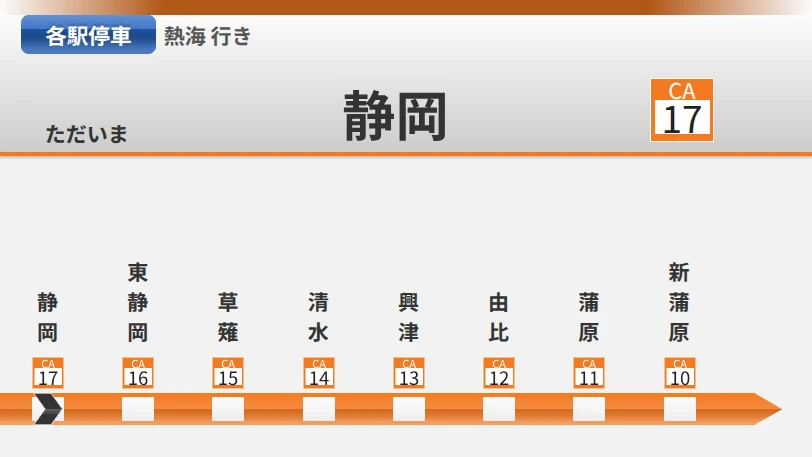
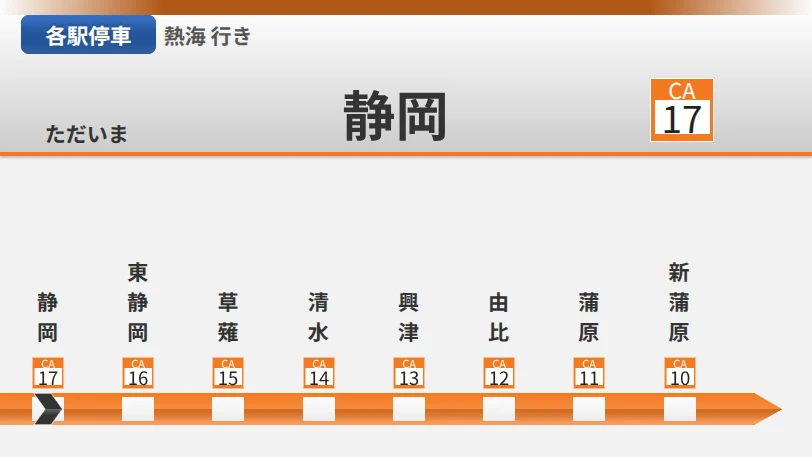
315系風の種別表示のグラデーションをなだらかにして光沢を抑える

Changed region(s): [[0.0, 0.0306, 0.2155, 0.0613], [0.0308, 0.0919, 0.1847, 0.1225]]

diff --git a/src/components/TrainTypeBox.tsx b/src/components/TrainTypeBox.tsx
@@ -45,6 +45,7 @@ type Props = {
   heightScale?: number;
   widthScale?: number;
   borderRadius?: number;
+  softGradient?: boolean;
 };
 
 export const resolveTrainTypeFontFamily = (
@@ -120,6 +121,7 @@ const TrainTypeBox: React.FC<Props> = ({
   heightScale = 1,
   widthScale = 1,
   borderRadius = 4,
+  softGradient = false,
 }: Props) => {
   const fontSizeScale = Math.max(fontSizeScaleRaw, 0.1);
   const boxHeight = BOX_HEIGHT * Math.max(heightScale, 0.1);
@@ -359,9 +361,17 @@ const TrainTypeBox: React.FC<Props> = ({
     <View>
       <View style={[styles.box, boxSizeStyle]}>
         <LinearGradient
-          colors={['#aaa', '#000', '#000', '#aaa']}
+          colors={
+            softGradient
+              ? ['#666', '#222', '#333', '#555']
+              : ['#aaa', '#000', '#000', '#aaa']
+          }
           locations={
-            darkenColor ? [0.35, 0.35, 0.35, 0.9] : [0.5, 0.5, 0.5, 0.9]
+            softGradient
+              ? [0, 0.35, 0.7, 1]
+              : darkenColor
+                ? [0.35, 0.35, 0.35, 0.9]
+                : [0.5, 0.5, 0.5, 0.9]
           }
           style={gradientStyle}
         />
@@ -372,13 +382,21 @@ const TrainTypeBox: React.FC<Props> = ({
         {darkenColor ? (
           <>
             <LinearGradient
-              colors={['#00000000', '#00000033', '#00000000']}
-              locations={[0.35, 0.55, 0.85]}
+              colors={
+                softGradient
+                  ? ['#00000000', '#00000018', '#00000000']
+                  : ['#00000000', '#00000033', '#00000000']
+              }
+              locations={softGradient ? [0, 0.55, 1] : [0.35, 0.55, 0.85]}
               style={gradientStyle}
             />
             <LinearGradient
-              colors={['#ffffff44', '#ffffff11', '#00000000']}
-              locations={[0, 0.35, 0.35]}
+              colors={
+                softGradient
+                  ? ['#ffffff18', '#ffffff08', '#00000000']
+                  : ['#ffffff44', '#ffffff11', '#00000000']
+              }
+              locations={softGradient ? [0, 0.45, 1] : [0, 0.35, 0.35]}
               style={gradientStyle}
             />
           </>

diff --git a/src/components/TrainTypeBox.test.tsx b/src/components/TrainTypeBox.test.tsx
@@ -211,7 +211,8 @@ describe('TrainTypeBox 2行種別の可読性', () => {
     fontSizeScale: number,
     heightScale = 1,
     widthScale = 1,
-    borderRadius?: number
+    borderRadius?: number,
+    gradientProps: { darkenColor?: boolean; softGradient?: boolean } = {}
   ) => {
     (useAtomValue as jest.Mock).mockImplementation((atom: unknown) => {
       if (atom === headerStateAtom) return 'CURRENT_JA';
@@ -230,6 +231,7 @@ describe('TrainTypeBox 2行種別の可読性', () => {
         heightScale={heightScale}
         widthScale={widthScale}
         borderRadius={borderRadius}
+        {...gradientProps}
       />
     );
   };
@@ -295,6 +297,41 @@ describe('TrainTypeBox 2行種別の可読性', () => {
         expect(StyleSheet.flatten(layer.props.style).borderRadius).toBe(
           borderRadius ?? 4
         );
+      }
+    }
+  );
+
+  it.each([false, true])(
+    'softGradient=%pの段階位置を確認する',
+    (softGradient) => {
+      const { UNSAFE_root } = renderWithScale(1.2, 1.3, 1.4, 8, {
+        darkenColor: true,
+        softGradient,
+      });
+      const layers = UNSAFE_root.findAllByType(LinearGradient);
+      expect(layers).toHaveLength(4);
+      if (softGradient) {
+        for (const layer of layers) {
+          const locations = layer.props.locations as number[] | undefined;
+          locations?.forEach((position, index) => {
+            if (index > 0)
+              expect(position).toBeGreaterThan(locations[index - 1]);
+          });
+        }
+        expect(layers[3].props.colors).toEqual([
+          '#ffffff18',
+          '#ffffff08',
+          '#00000000',
+        ]);
+      } else {
+        expect(layers[0].props.colors).toEqual([
+          '#aaa',
+          '#000',
+          '#000',
+          '#aaa',
+        ]);
+        expect(layers[0].props.locations).toEqual([0.35, 0.35, 0.35, 0.9]);
+        expect(layers[3].props.locations).toEqual([0, 0.35, 0.35]);
       }
     }
   );

diff --git a/src/components/HeaderJRKyushu.test.tsx b/src/components/HeaderJRKyushu.test.tsx
@@ -174,6 +174,7 @@ describe('HeaderJRKyushu', () => {
       expect(jest.mocked(TrainTypeBox).mock.calls.at(-1)?.[0]).toEqual(
         expect.objectContaining({
           darkenColor: true,
+          softGradient: true,
           fontSizeScale: 1.2,
           heightScale: 1.3,
           widthScale: 1.4,

diff --git a/src/components/HeaderJRKyushu.tsx b/src/components/HeaderJRKyushu.tsx
@@ -173,6 +173,7 @@ const HeaderJRKyushu: React.FC<Props> = (props) => {
             <TrainTypeBox
               trainType={trainType}
               darkenColor
+              softGradient
               fontSizeScale={1.2}
               heightScale={1.3}
               widthScale={1.4}
